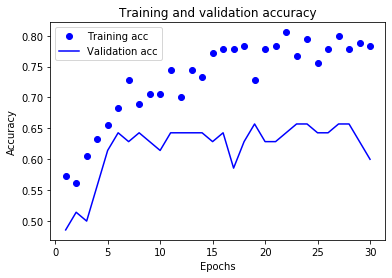
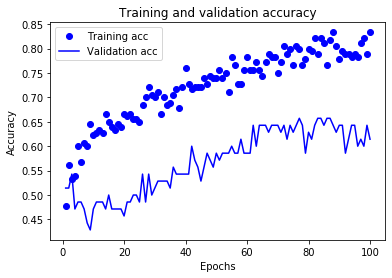
fix

diff --git a/_posts/2020-01-16-data-analysis-epl1718.md b/_posts/2020-01-16-data-analysis-epl1718.md
@@ -67,19 +67,19 @@ The training and validation accuracies of the network can be seen below.
 
 Because of the overfitting, the increase in the validation accuracy stops at some point.
 
-From the plots above, we see that it is a nice idea to stop training after around 10 epochs. After modifying the number of epochs to train the network, we train the network again and obtain the following plots.
+From the plots above, we see that it is a nice idea to stop training after around 80 epochs. After modifying the number of epochs to train the network, we train the network again and obtain the following plots.
 
-![Training and validation losses after 10 epochs]({{ site.url }}/assets/data_analysis_epl1718/train_val_loss_10.jpg)
+![Training and validation losses after 80 epochs]({{ site.url }}/assets/data_analysis_epl1718/train_val_loss_80.jpg)
 
-![Training and validation accuracies after 10 epochs]({{ site.url }}/assets/data_analysis_epl1718/train_val_acc_10.jpg)
+![Training and validation accuracies after 80 epochs]({{ site.url }}/assets/data_analysis_epl1718/train_val_acc_80.jpg)
 
-Looks much better. However, I should say that there is an element of luck for the 2 plots above because there is a high variance in the performance due to the low amount of data. You are probably tired of reading "performance is not the best due to low amount of data" again and again but this is a common and serious issue in machine learning and deep learning. Since the dataset I am working on is naturally not rich in terms of number of samples, we can do not much but pray. At this point may be you have thought "Why not use the previous seasons as well?". The reason we cannot do that is the league is dynamic. The teams playing in the league change, the players change, the coaches and the football tactics of the team change and so on. At the time of writing this post (Jan 16, 2020), Liverpool is dominating the league. If you use the 2010-2011 EPL season too in your dataset, you will get poor performance because the team was not as good as today.
+Looks much better. However, we should note there is a high variance in the performance due to the low amount of data. You are probably tired of reading "performance is not the best due to low amount of data" again and again but this is a common and serious issue in machine learning and deep learning. Since the dataset I am working on is naturally not rich in terms of number of samples, we can do not much but pray. At this point may be you have thought "Why not use the previous seasons as well?". The reason we cannot do that is the league is dynamic. The teams playing in the league change, the players change, the coaches and the football tactics of the team change and so on. At the time of writing this post (Jan 16, 2020), Liverpool is dominating the league. If you use the 2010-2011 EPL season too in your dataset, you will get poor performance because the team was not as good as today.
 
-We evaluate our model in the test set: 8 weeks (80 matches). There will be high variance in the result since the number of samples in the test set is too low. Every time we run the whole code, we will get different results in the range 55-70%. To get a meaningful result, I have run the code 100 times and took the average. The performance in the test set is 61% as seen below. This is the best we can do with the current setup. Maybe one can use advanced techniques such as few-shot learning algorithms to increase the performance. Or the hyperparameters can be tuned.
+We evaluate our model in the test set: 8 weeks (80 matches). There will be high variance in the result since the number of samples in the test set is too low. Every time we run the whole code, we will get different results in the range 55-70%. To get a meaningful result, I have run the code 100 times and took the average. The performance in the test set is 62% as seen below. This is the best we can do with the current setup. Maybe one can use advanced techniques such as few-shot learning algorithms to increase the performance. Or the hyperparameters can be tuned.
 
 ![Performance on test set for different runs]({{ site.url }}/assets/data_analysis_epl1718/test_runs.jpg)
 
-So, we are now able to predict the result of a match (O2.5 or U2.5) with 61% accuracy. This is better than the "dumb" baseline 50%. Suppose you are betting on 3 matches. If you are betting randomly, then you have a 12.5% chance of winning in total. However, you have ~23% chance if you use the model. Maybe your intuition performs better than this model, maybe not. What is certain is that you can use this approach while betting. It certainly gives you useful information.
+So, we are now able to predict the result of a match (O2.5 or U2.5) with 62% accuracy. This is better than the "dumb" baseline 50%. Suppose you are betting on 3 matches. If you are betting randomly, then you have a 12.5% chance of winning in total. However, you have ~24% chance if you use the model. Maybe your intuition performs better than this model, maybe not. What is certain is that you can use this approach while betting. It certainly gives you useful information.
 
 If you want to apply this work to the current season, first you should have the dataset. However, since the current season is ongoing, you will have less data. You will have not even 380 matches. Therefore, your model will perform worse compared to this one. Nevertheless, it will give you higher chance of winning compared to a bet that does not use the model, since you are utilizing a neural network.
 
